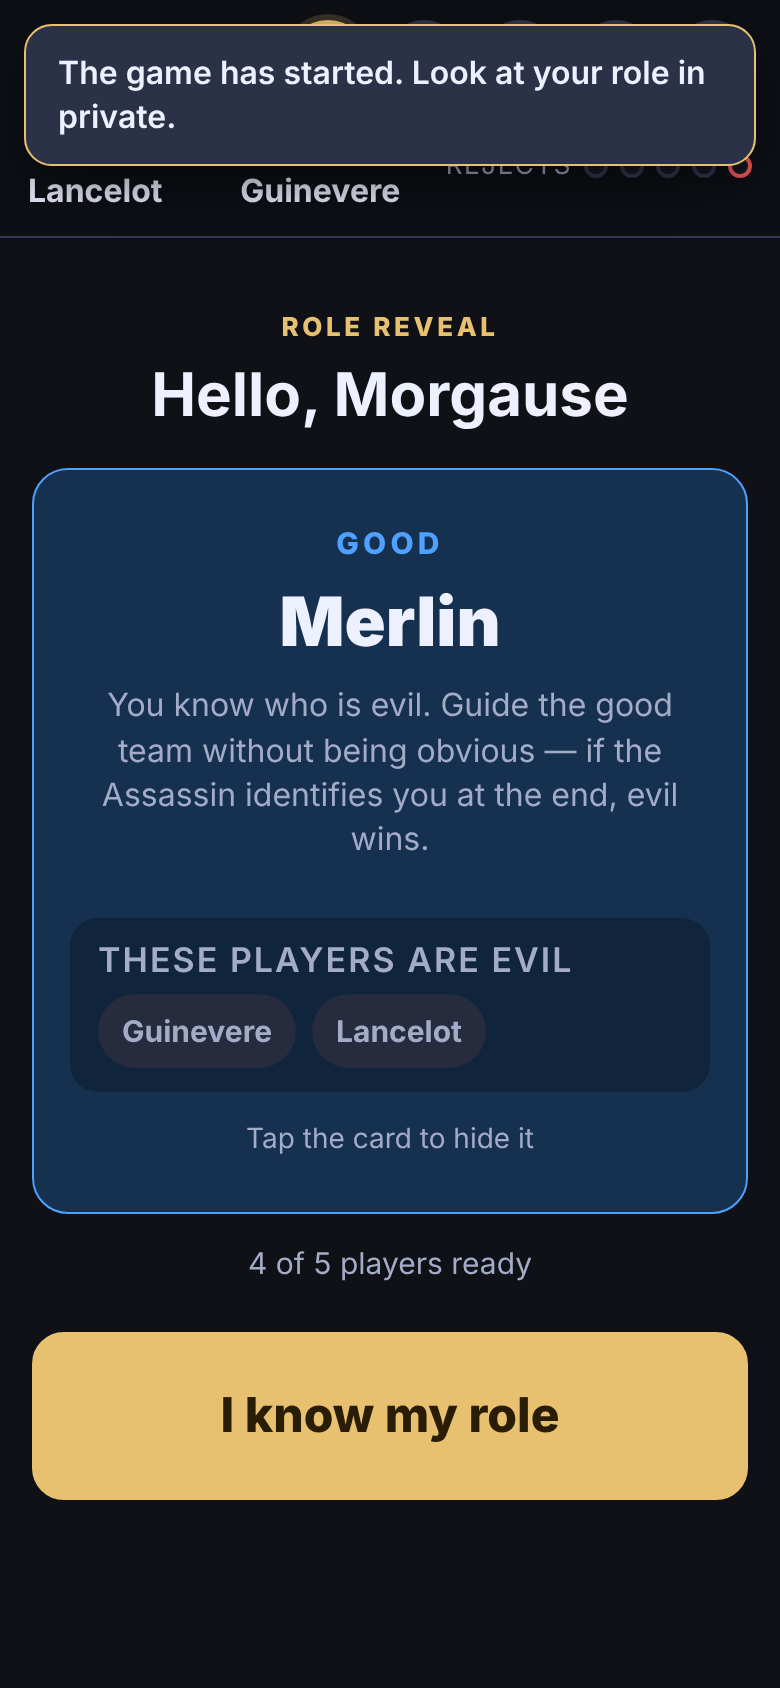
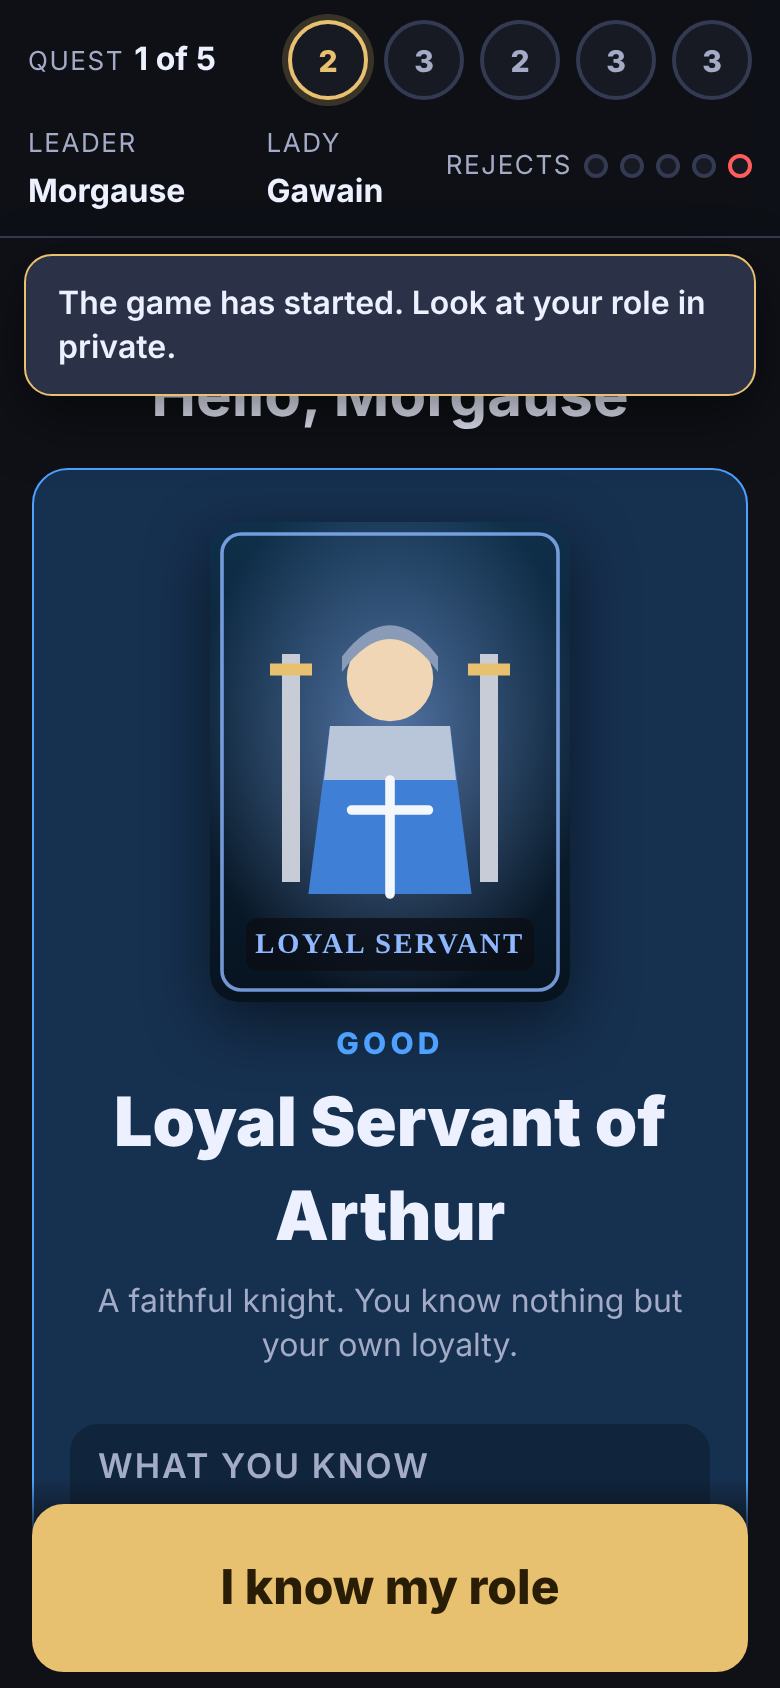
Add illustrated role cards with play tips and a host restart
Role reveal now shows a card picture (img/<role>.png if provided, else the
bundled drawn SVG), a one-line description and three 'how to play' tips.
The host panel gains 'Restart game (back to lobby)', which abandons the
running game and keeps the players; the engine clears roles and history.

Claude-Session: https://claude.ai/code/session_01L9td7i8WK9tKyVLFpHJSvk

diff --git a/server/src/main/resources/web/app.js b/server/src/main/resources/web/app.js
@@ -191,11 +191,10 @@
       if (state.phase === 'ROLE_REVEAL' && (!prev || prev.phase !== 'ROLE_REVEAL')) ui.roleShown = false;
     }
     if (state.phase === 'LOBBY') ui.roleShown = false;
-    if (state.lastEvent && state.lastEvent !== ui.lastEventShown) {
-      ui.lastEventShown = state.lastEvent;
-      if (prev) banner(state.lastEvent);
-    }
+    const newEvent = state.lastEvent && state.lastEvent !== ui.lastEventShown;
+    ui.lastEventShown = state.lastEvent;
     render();
+    if (newEvent && prev) banner(state.lastEvent); // after render, so it sits below the status bar
   }
 
   // ------------------------------------------------------------ helpers
@@ -215,14 +214,32 @@
     return `<div class="names">${ids.map((id) => `<span class="tag">${esc(nameOf(id))}</span>`).join('')}</div>`;
   }
 
+  // Card art: the real card scans go in img/<key>.png (see README); the bundled .svg is the fallback.
   const ROLE_INFO = {
-    MERLIN: { name: 'Merlin', loyalty: 'GOOD', text: 'You know who is evil. Guide the good team without being obvious — if the Assassin identifies you at the end, evil wins.' },
-    PERCIVAL: { name: 'Percival', loyalty: 'GOOD', text: 'You see two names: one is Merlin, the other is Morgana pretending to be Merlin. Work out which is which and protect Merlin.' },
-    LOYAL_SERVANT: { name: 'Loyal Servant of Arthur', loyalty: 'GOOD', text: 'You know nothing but your loyalty. Watch the votes and quests closely and help good succeed on three quests.' },
-    MORGANA: { name: 'Morgana', loyalty: 'EVIL', text: 'You appear as Merlin to Percival. Sow confusion, fail quests and help the Assassin find the real Merlin.' },
-    ASSASSIN: { name: 'Assassin', loyalty: 'EVIL', text: 'If good wins three quests, you get one shot: name Merlin and evil wins anyway.' },
-    MINION: { name: 'Minion of Mordred', loyalty: 'EVIL', text: 'You know your fellow evil players. Get onto quests and fail them, or make the votes fail five times in a row.' },
+    MERLIN: { name: 'Merlin', img: 'merlin', loyalty: 'GOOD',
+      text: 'The wise wizard. You know who is evil, but the Assassin is hunting you.',
+      tips: ['Steer the good players away from evil team members without being obvious.', 'Never say outright who is evil: if the Assassin works out who you are at the end, evil wins.', 'Let Percival and the Servants take the credit for good calls.'] },
+    PERCIVAL: { name: 'Percival', img: 'percival', loyalty: 'GOOD',
+      text: 'The loyal knight who knows Merlin\u2019s face, but Morgana looks the same to you.',
+      tips: ['You see two names: one is Merlin, the other is Morgana pretending to be Merlin.', 'Watch which of the two gives good advice and trust that one.', 'Act like you might be Merlin to draw the Assassin\u2019s attention away from the real one.'] },
+    LOYAL_SERVANT: { name: 'Loyal Servant of Arthur', img: 'loyal_servant', loyalty: 'GOOD',
+      text: 'A faithful knight. You know nothing but your own loyalty.',
+      tips: ['Study the votes: evil players tend to approve teams that contain evil.', 'A failed quest means someone on that team is evil.', 'Help good win three quests, and remember you could be the Assassin\u2019s decoy.'] },
+    MORGANA: { name: 'Morgana', img: 'morgana', loyalty: 'EVIL',
+      text: 'The sorceress. Percival sees you as a possible Merlin.',
+      tips: ['Act like Merlin so Percival trusts you instead of the real one.', 'Get onto quests and play Fail at the right moment.', 'Help the Assassin figure out who the real Merlin is.'] },
+    ASSASSIN: { name: 'Assassin', img: 'assassin', loyalty: 'EVIL',
+      text: 'The blade in the dark. If good wins three quests, you get one shot at Merlin.',
+      tips: ['Watch who quietly steers the good players: that is probably Merlin.', 'Fail quests when you are on them, and make votes fail five times if you can.', 'At the end, discuss with your team and name Merlin to win.'] },
+    MINION: { name: 'Minion of Mordred', img: 'minion', loyalty: 'EVIL',
+      text: 'A servant of darkness. You know your fellow evil players.',
+      tips: ['Get picked for quests and play Fail (one is usually enough).', 'Reject teams full of good players; approve teams that include evil.', 'Help identify Merlin for the Assassin at the end.'] },
   };
+
+  function roleImage(info, cls) {
+    return `<img class="${cls || 'role-img'}" src="img/${info.img}.png" alt="" onerror="if(!this.dataset.fb){this.dataset.fb=1;this.src='img/${info.img}.svg'}">`;
+  }
+
 
   // ------------------------------------------------------------ render
   function render() {
@@ -345,10 +362,12 @@
 
     const card = ui.roleShown
       ? `<div class="card role-card ${good ? 'good' : 'evil'}" data-action="toggleRole">
+           ${roleImage(info)}
            <div class="loyalty">${good ? 'Good' : 'Evil'}</div>
            <div class="role-name">${esc(info.name)}</div>
            <p class="muted" style="font-size:16px">${esc(info.text)}</p>
            ${knowledge}
+           <div class="know"><h3>How to play</h3><ul class="tips">${(info.tips || []).map((t) => `<li>${esc(t)}</li>`).join('')}</ul></div>
            <p class="muted" style="margin:14px 0 0;font-size:14px">Tap the card to hide it</p>
          </div>`
       : `<div class="card role-card covered" data-action="toggleRole" role="button" tabindex="0">
@@ -362,7 +381,7 @@
       <div class="actions">
         ${done ? `<button class="btn secondary" disabled>Waiting for the others…</button>` : `<button class="btn big" data-action="confirmRole">I know my role</button>`}
         ${m.isHost && done && ready < n ? `<button class="btn ghost" data-action="forceContinue">Skip waiting (host)</button>` : ''}
-      </div>`;
+      </div>${historyButton()}`;
   }
 
   // ---- team selection
@@ -495,7 +514,7 @@
     return `
       <div class="hero"><div class="eyebrow">Lady of the Lake · private</div><h1>${esc(nameOf(last.targetId))} is…</h1></div>
       <div class="card role-card ${good ? 'good' : 'evil'}"><div class="big-result ${good ? 'good' : 'evil'}">${good ? 'GOOD' : 'EVIL'}</div><p class="muted">Only you can see this. You may lie about it.</p></div>
-      <div class="actions"><button class="btn big" data-action="ladyConfirm">Got it — pass the Lady</button></div>`;
+      <div class="actions"><button class="btn big" data-action="ladyConfirm">Got it — pass the Lady</button></div>${historyButton()}`;
   }
 
   // ---- assassination
@@ -513,7 +532,7 @@
     return `
       <div class="hero"><div class="eyebrow">You are the Assassin</div><h1>Who is Merlin?</h1><p>Discuss with your team, then choose. This ends the game.</p></div>
       <ul class="pick">${picks}</ul>
-      <div class="actions"><button class="btn big evil" data-action="assassinate" ${ui.pickedAssassin ? '' : 'disabled'}>Assassinate ${ui.pickedAssassin ? esc(nameOf(ui.pickedAssassin)) : ''}</button></div>`;
+      <div class="actions"><button class="btn big evil" data-action="assassinate" ${ui.pickedAssassin ? '' : 'disabled'}>Assassinate ${ui.pickedAssassin ? esc(nameOf(ui.pickedAssassin)) : ''}</button></div>${historyButton()}`;
   }
 
   // ---- game over
@@ -525,7 +544,7 @@
       const r = g.roles[p.id];
       const info = ROLE_INFO[r] || { name: r, loyalty: '' };
       const isGood = info.loyalty === 'GOOD';
-      return `<tr><td>${esc(p.name)}${isMe(p.id) ? ' (you)' : ''}</td><td class="${isGood ? 'good-text' : 'evil-text'}">${esc(info.name)}</td><td>${g.assassinTargetId === p.id ? '🎯' : ''}</td></tr>`;
+      return `<tr><td>${esc(p.name)}${isMe(p.id) ? ' (you)' : ''}</td><td class="${isGood ? 'good-text' : 'evil-text'}">${info.img ? roleImage(info, 'role-thumb') : ''}${esc(info.name)}</td><td>${g.assassinTargetId === p.id ? '🎯' : ''}</td></tr>`;
     }).join('');
     return `
       <div class="hero"><div class="eyebrow">Game over</div><div class="big-result ${good ? 'good' : 'evil'}">${good ? 'GOOD WINS' : 'EVIL WINS'}</div><p>${esc(g.reason)}</p></div>
@@ -554,7 +573,8 @@
           ? '<span class="tag ok">can rejoin</span>'
           : `<button class="btn small secondary" data-action="allowRejoin" data-id="${esc(p.id)}">Let ${esc(p.name)} rejoin</button>`) : ''}
       </li>`).join('')}</ul>
-      ${s.you.isHost ? '<p class="muted" style="font-size:14px;margin-top:8px">If a friend lost their seat (new browser, cleared data), let them rejoin: they join again with the same name.</p>' : ''}`;
+      ${s.you.isHost ? '<p class="muted" style="font-size:14px;margin-top:8px">If a friend lost their seat (new browser, cleared data), let them rejoin: they join again with the same name.</p>' : ''}
+      ${s.you.isHost && s.phase !== 'LOBBY' ? '<button class="btn danger" data-action="restart" style="margin-top:8px">Restart game (back to lobby)</button>' : ''}`;
   }
 
   function questHistoryHtml(s) {
@@ -652,6 +672,7 @@
       case 'playAgain': act('playAgain'); break;
       case 'openHistory': ui.historyOpen = true; renderHistory(); break;
       case 'allowRejoin': act('allowRejoin', { playerId: id }); break;
+      case 'restart': if (confirm('Abandon this game and send everyone back to the lobby? Roles will be dealt again.')) { closeHistory(); act('restart'); } break;
       case 'closeHistory': closeHistory(); break;
       default: break;
     }

diff --git a/server/src/main/resources/web/style.css b/server/src/main/resources/web/style.css
@@ -260,3 +260,9 @@ th { color: var(--muted); font-size: 13px; text-transform: uppercase; letter-spa
 .subtle-link { background: none; border: none; color: var(--muted); text-decoration: underline; padding: 12px; min-height: 44px; cursor: pointer; font-size: 15px; }
 .topbar { display: flex; justify-content: space-between; align-items: center; margin-bottom: 8px; }
 .icon-btn { display: inline-flex; align-items: center; gap: 6px; min-height: 44px; padding: 6px 14px; border-radius: 12px; border: 1px solid var(--line); background: var(--card); color: var(--text); font-weight: 700; font-size: 15px; cursor: pointer; }
+
+/* ---------- role art ---------- */
+.role-img { display: block; width: 180px; max-width: 60%; height: auto; margin: 0 auto 10px; border-radius: 14px; box-shadow: 0 10px 30px rgba(0, 0, 0, .5); }
+.role-thumb { width: 28px; height: 37px; border-radius: 4px; vertical-align: middle; margin-right: 8px; object-fit: cover; }
+.tips { margin: 0; padding-left: 18px; font-size: 15px; color: var(--text); }
+.tips li { margin: 4px 0; }

diff --git a/engine/src/test/kotlin/avalon/engine/GameTest.kt b/engine/src/test/kotlin/avalon/engine/GameTest.kt
@@ -494,6 +494,23 @@ class GameTest {
     }
 
     @Test
+    fun `host can restart a running game back to the lobby`() {
+        val g = started(6)
+        assertFailsWith<IllegalActionException> { g.restart("p1") }
+        g.approveTeam()
+        g.restart("p0")
+        assertEquals(Phase.LOBBY, g.phase)
+        assertEquals(6, g.players.size)
+        g.players.forEach { assertNull(it.role); assertNull(g.viewFor(it.id).you.role) }
+        assertNull(g.viewFor("p0").leaderId)
+        assertTrue(g.viewFor("p0").quests.isEmpty() && g.viewFor("p0").voteHistory.isEmpty())
+        assertFailsWith<IllegalActionException> { g.restart("p0") } // nothing running
+        g.start("p0")
+        assertEquals(Phase.ROLE_REVEAL, g.phase)
+        assertNotNull(g.players[0].role)
+    }
+
+    @Test
     fun `actions in the wrong phase are rejected`() {
         val g = lobby(5)
         assertFailsWith<IllegalActionException> { g.proposeTeam("p0", listOf("p0", "p1")) }

diff --git a/engine/src/main/kotlin/avalon/engine/Game.kt b/engine/src/main/kotlin/avalon/engine/Game.kt
@@ -127,6 +127,20 @@ class Game(private val random: Random = Random.Default) {
         beginGame()
     }
 
+    /** Host, any time during a game: abandon it and return everyone to the lobby (same players, roles discarded). */
+    fun restart(hostId: String) {
+        requireHost(hostId)
+        if (phase == Phase.LOBBY) throw IllegalActionException("No game is running")
+        seats.forEach { it.role = null }
+        setup = null
+        questIndex = 0; rejections = 0; proposedTeam = emptyList()
+        votes.clear(); questCards.clear(); ready.clear()
+        quests.clear(); voteHistory.clear(); ladyHistory.clear(); ladyFormerHolders.clear(); questCardHistory.clear()
+        winner = null; winReason = null; assassinTargetId = null; ladyHolderId = null
+        phase = Phase.LOBBY
+        bump("The host restarted the game. Back to the lobby.")
+    }
+
     private fun beginGame() {
         val n = seats.size
         setup = Setup.forPlayers(n)

diff --git a/server/src/main/kotlin/avalon/server/Room.kt b/server/src/main/kotlin/avalon/server/Room.kt
@@ -175,6 +175,7 @@ class Room(
                     "ladyConfirm" -> game.ladyConfirm(pid)
                     "assassinate" -> game.assassinate(pid, obj.str("playerId") ?: throw IllegalActionException("Missing player"))
                     "playAgain" -> game.playAgain(pid)
+                    "restart" -> { game.restart(pid); rejoinable.clear() }
                     else -> throw IllegalActionException("Unknown action")
                 }
             }

diff --git a/README.md b/README.md
@@ -41,11 +41,24 @@ You only need to do this once per phone, and only on the host phone. Repeat it w
 5. When 5–10 people have joined, the host taps **Start game**. The Lady of the Lake is on automatically with 7 or more players; with 5–6 the host can switch it on in the lobby.
 6. Play! Phones that fall asleep or lose Wi-Fi simply reconnect and show the same screen again. If a friend's browser has really lost its seat (for example they cleared their browser data), the host opens the player list, taps **Let … rejoin**, and the friend joins again with the same name.
 7. At the end everyone sees all roles and the full vote history. The host can tap **Play again** to start a new game with the same people.
+8. Need to abandon a game half-way (someone left, wrong settings)? The host opens **Players, votes & quest history** at the bottom of any screen and taps **Restart game (back to lobby)**. Everyone returns to the lobby, players can be added or removed, and new roles are dealt when the host starts again.
 
 Tips
 * Keep the host phone plugged in or charged; it's doing the work.
 * Phones occasionally show *"No internet"* on the hotspot. That's expected and fine. If a phone asks whether to *stay connected*, say yes.
 * iPhones: open the address in Safari. If the camera doesn't offer to open the link, type it in by hand.
+
+## 2b. Using the real Avalon card pictures
+
+The app ships with its own drawn role cards. If you'd rather see the card art you know from the physical game, add pictures of your own cards and they are used automatically:
+
+1. Photograph or scan each role card (or use images you already have) and save them as PNG files with exactly these names:
+   `merlin.png`, `percival.png`, `loyal_servant.png`, `morgana.png`, `assassin.png`, `minion.png`.
+   Portrait orientation, roughly 600×800 pixels is plenty; keep each file under ~300 KB so phones load them quickly.
+2. Put them in the folder `server/src/main/resources/web/img/` (next to the `.svg` files) and commit/push, or upload them through GitHub's web interface (**Add file → Upload files** inside that folder).
+3. GitHub Actions builds a new APK with the pictures bundled. Install it on the host phone as in section 1.
+
+If a `.png` is missing the drawn `.svg` card is shown instead. (The official artwork is copyrighted by its publisher, which is why it is not included in this repository; using photos of cards you own for a private game among friends is up to you.)
 
 ## 3. How the game works (rules implemented)
 
